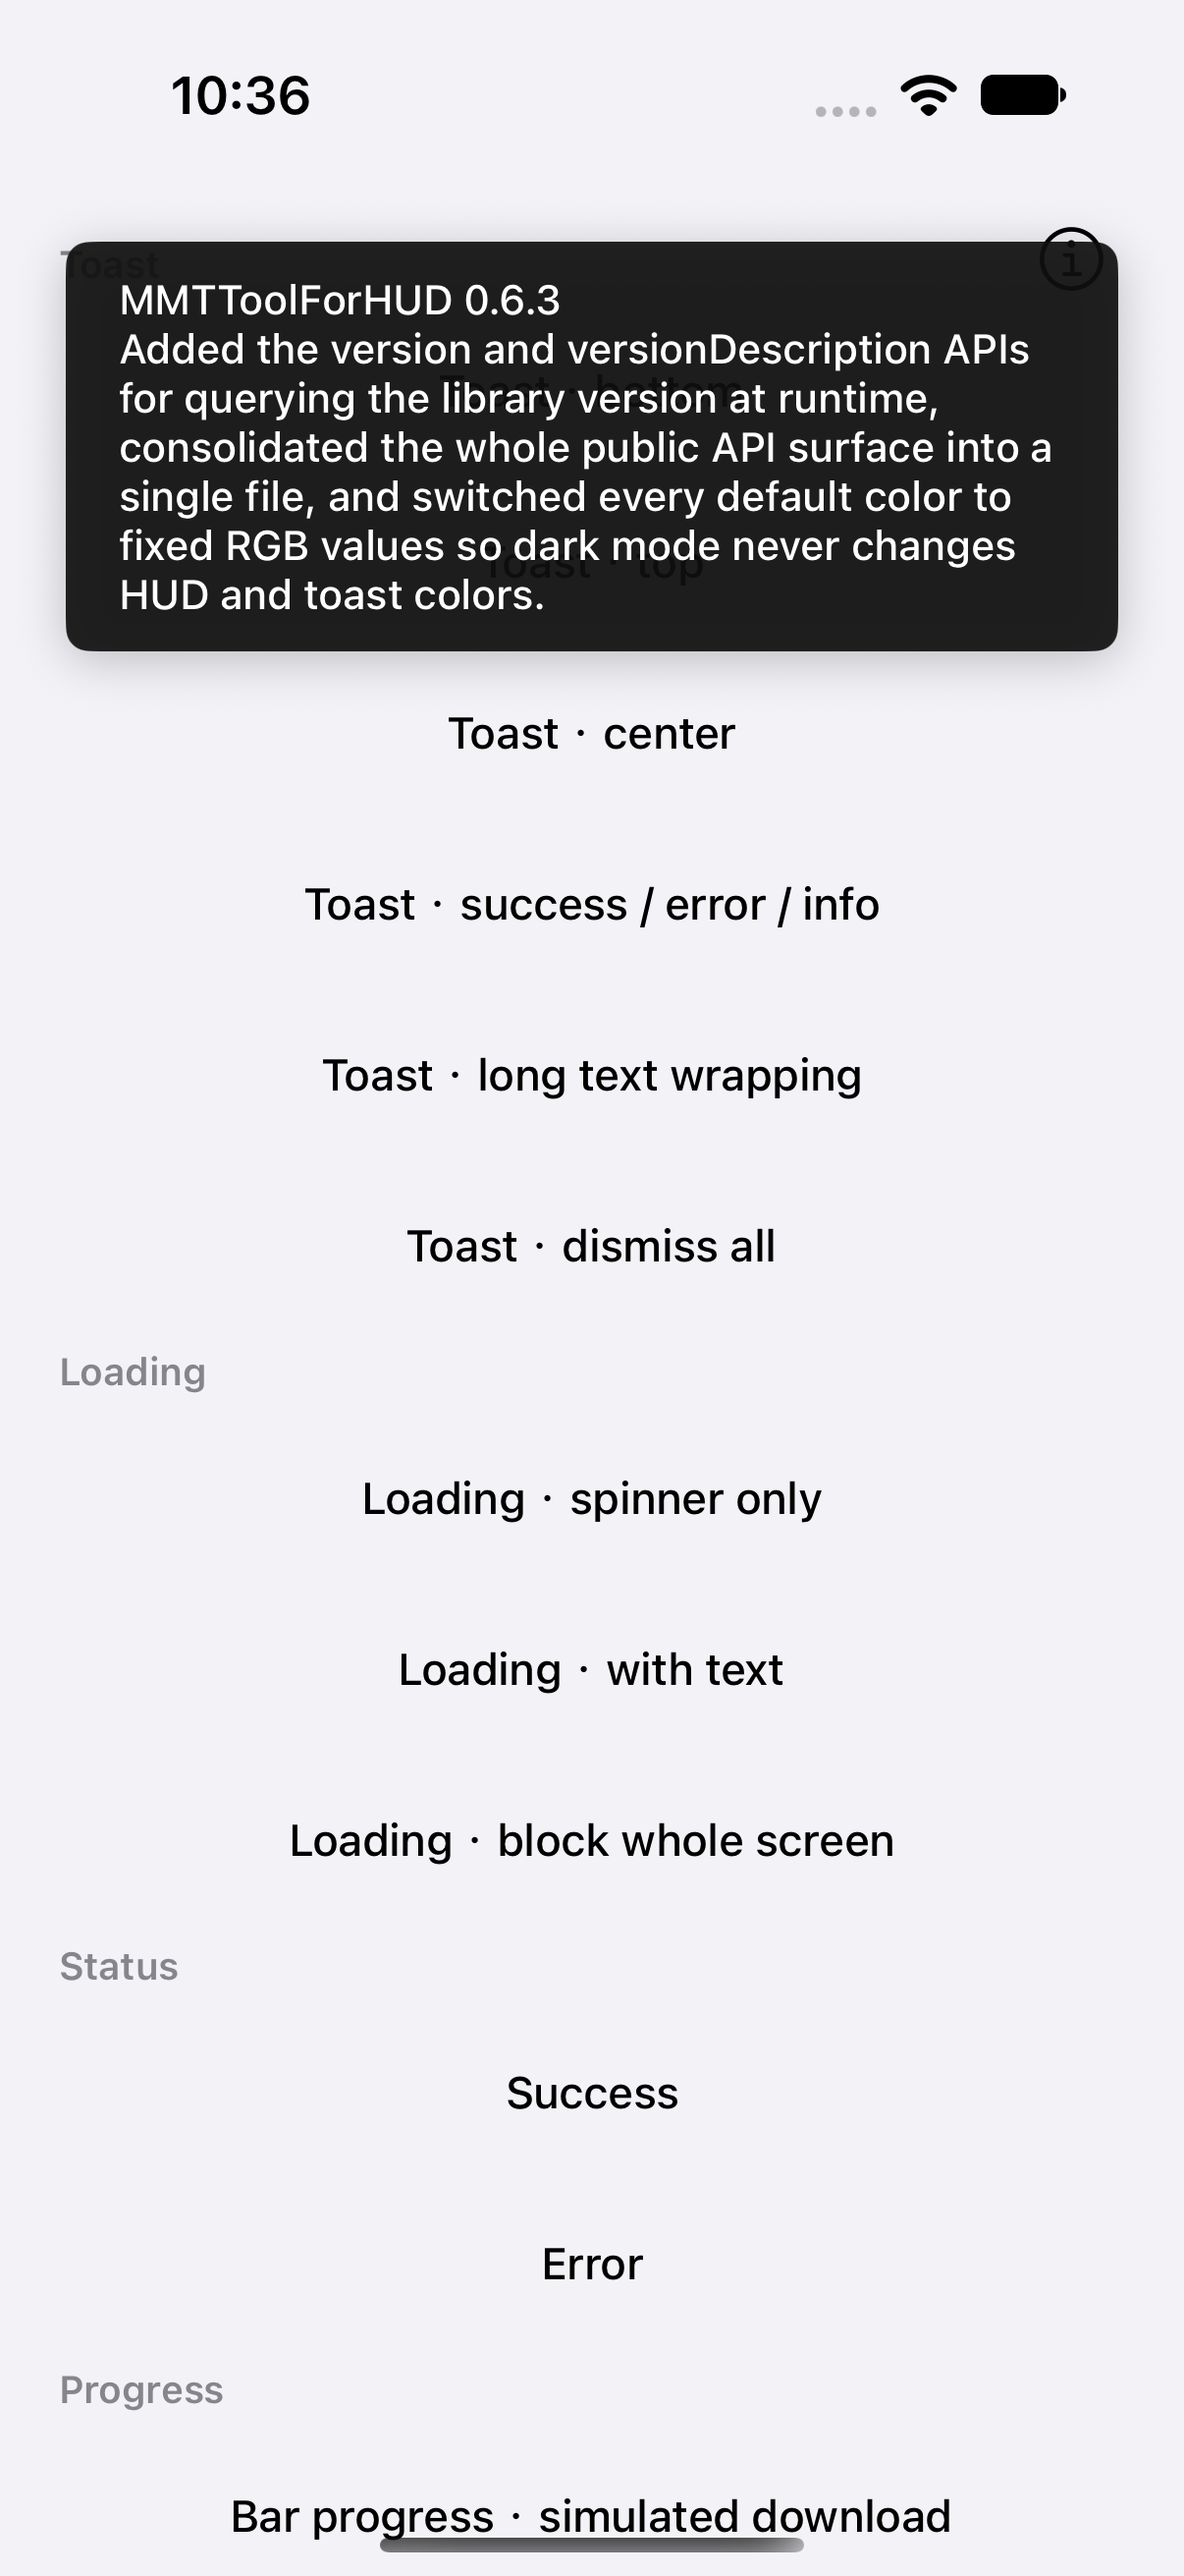
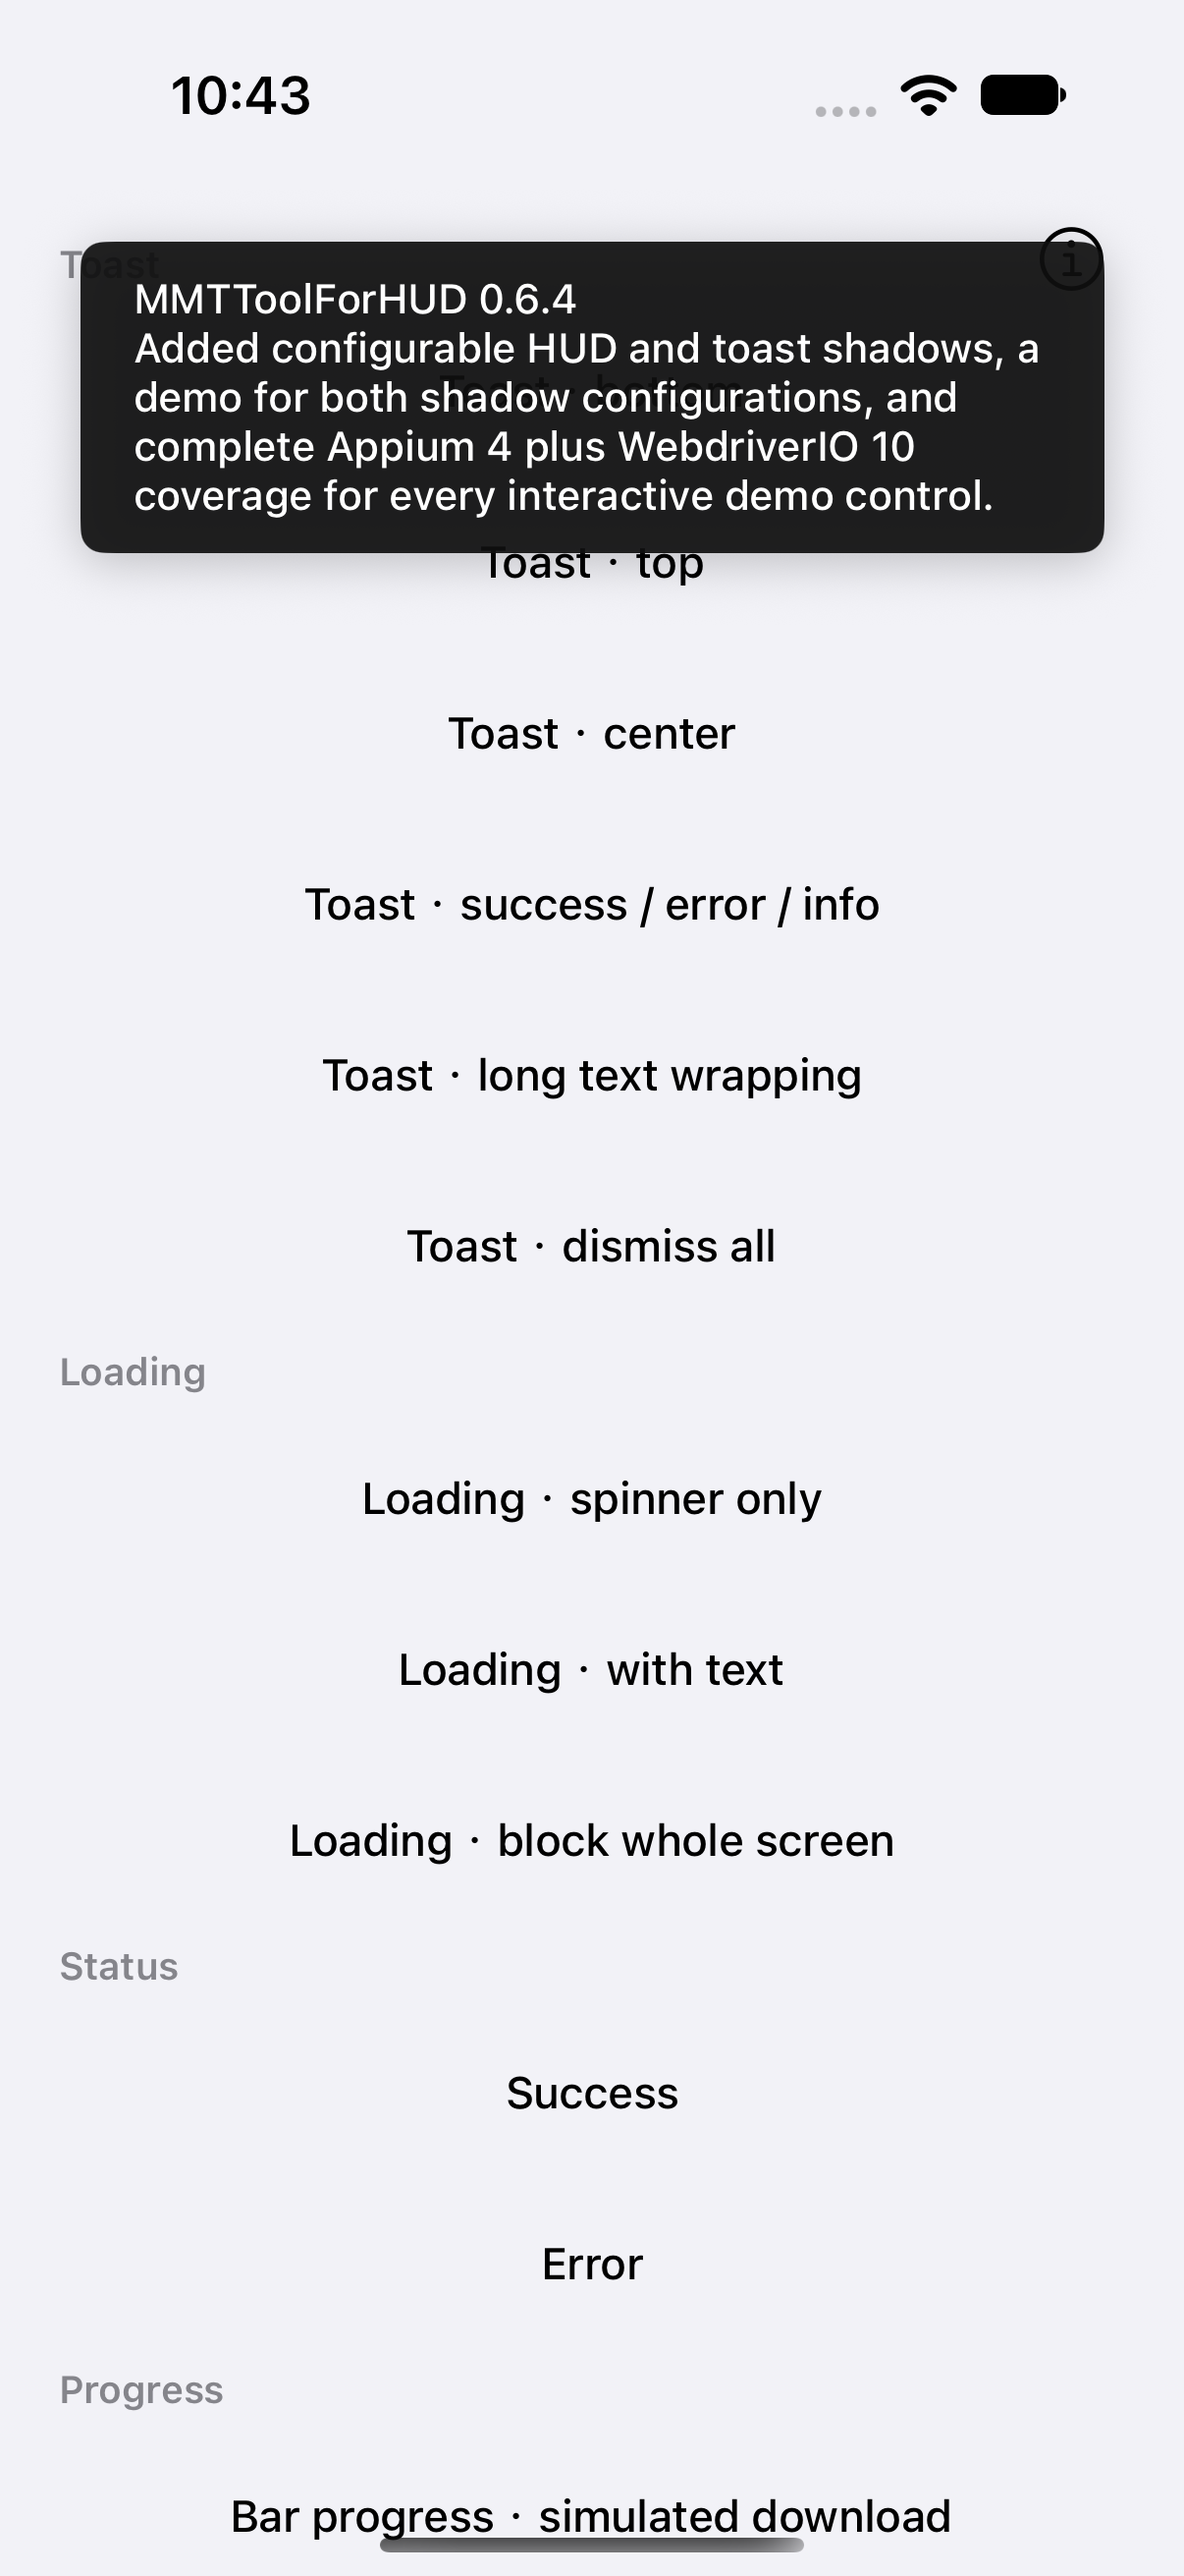
chore: prepare 0.6.4 release

Changed region(s): [[0.0307, 0.0927, 0.9511, 0.278], [0.2148, 0.0309, 0.2454, 0.0618]]

diff --git a/MMTToolForHUD/Classes/MMTToolForHUD.swift b/MMTToolForHUD/Classes/MMTToolForHUD.swift
@@ -40,17 +40,16 @@ public final class MMTToolForHUD {
 
     // MARK: - Version
 
-    /// The current version of the MMTToolForHUD library (e.g. `"0.6.3"`),
+    /// The current version of the MMTToolForHUD library (e.g. `"0.6.4"`),
     /// kept in sync with the podspec.
-    public static let version = "0.6.3"
+    public static let version = "0.6.4"
 
     /// Release notes for the current version: what changed since the
     /// previous release. Kept in sync with the version's release commit.
     public static let versionDescription = """
-        Added the version and versionDescription APIs for querying the \
-        library version at runtime, consolidated the whole public API \
-        surface into a single file, and switched every default color to \
-        fixed RGB values so dark mode never changes HUD and toast colors.
+        Added configurable HUD and toast shadows, a demo for both shadow \
+        configurations, and complete Appium 4 plus WebdriverIO 10 coverage \
+        for every interactive demo control.
         """
 
     // MARK: - Configuration

diff --git a/Example/Tests/Tests.swift b/Example/Tests/Tests.swift
@@ -42,7 +42,7 @@ final class MMTToolForHUDTests: XCTestCase {
                        UIColor(red: 52 / 255, green: 199 / 255, blue: 89 / 255, alpha: 1))
         XCTAssertEqual(config.errorIconColor,
                        UIColor(red: 1, green: 59 / 255, blue: 48 / 255, alpha: 1))
-        XCTAssertEqual(config.hudShadowOpacity, 0.22)
+        XCTAssertEqual(config.hudShadowOpacity, 0.35)
         XCTAssertEqual(config.hudShadowRadius, 10)
         XCTAssertEqual(config.hudShadowOffset, CGSize(width: 0, height: 4))
         XCTAssertEqual(config.toastShadowOpacity, 0.22)

diff --git a/Appium/reports/appium-report.md b/Appium/reports/appium-report.md
@@ -1,24 +1,24 @@
 # MMTToolForHUD Appium Report
 
-Generated: 2026-11-27T02:36:20.404Z
+Generated: 2026-11-27T02:43:45.277Z
 
 Simulator: iPhone 18 Pro
 
 | Test | Status | Duration | Screenshot |
 |---|---|---:|---|
-| shows a bottom toast that auto-dismisses | PASS | 2442ms | [Screenshot](screenshots/shows-a-bottom-toast-that-auto-dismisses.png) |
-| shows a top-position toast | PASS | 544ms | [Screenshot](screenshots/shows-a-top-position-toast.png) |
-| shows a center-position toast | PASS | 544ms | [Screenshot](screenshots/shows-a-center-position-toast.png) |
-| stacks success, error and info toasts | PASS | 652ms | [Screenshot](screenshots/stacks-success-error-and-info-toasts.png) |
-| shows a wrapping long-text toast | PASS | 570ms | [Screenshot](screenshots/shows-a-wrapping-long-text-toast.png) |
-| dismisses every visible toast | PASS | 1028ms | [Screenshot](screenshots/dismisses-every-visible-toast.png) |
-| shows a spinner-only loading HUD and auto-dismisses it | PASS | 2386ms | [Screenshot](screenshots/shows-a-spinner-only-loading-hud-and-auto-dismisses-it.png) |
-| shows loading HUD with text and auto-dismisses it | PASS | 2389ms | [Screenshot](screenshots/shows-loading-hud-with-text-and-auto-dismisses-it.png) |
-| blocks the whole screen and restores HUD-only interception | PASS | 2689ms | [Screenshot](screenshots/blocks-the-whole-screen-and-restores-hud-only-interception.png) |
-| shows the success status icon and auto-dismisses | PASS | 2015ms | [Screenshot](screenshots/shows-the-success-status-icon-and-auto-dismisses.png) |
-| shows the error status icon and auto-dismisses | PASS | 1957ms | [Screenshot](screenshots/shows-the-error-status-icon-and-auto-dismisses.png) |
-| runs bar progress to completion and shows a toast | PASS | 3168ms | [Screenshot](screenshots/runs-bar-progress-to-completion-and-shows-a-toast.png) |
-| runs ring progress to completion | PASS | 4816ms | [Screenshot](screenshots/runs-ring-progress-to-completion.png) |
-| shows configurable HUD and toast shadows | PASS | 2172ms | [Screenshot](screenshots/shows-configurable-hud-and-toast-shadows.png) |
-| applies custom spinner and status icon colors in sequence | PASS | 5871ms | [Screenshot](screenshots/applies-custom-spinner-and-status-icon-colors-in-sequence.png) |
-| shows version information from the floating info button | PASS | 824ms | [Screenshot](screenshots/shows-version-information-from-the-floating-info-button.png) |
+| shows a bottom toast that auto-dismisses | PASS | 2432ms | [Screenshot](screenshots/shows-a-bottom-toast-that-auto-dismisses.png) |
+| shows a top-position toast | PASS | 579ms | [Screenshot](screenshots/shows-a-top-position-toast.png) |
+| shows a center-position toast | PASS | 557ms | [Screenshot](screenshots/shows-a-center-position-toast.png) |
+| stacks success, error and info toasts | PASS | 684ms | [Screenshot](screenshots/stacks-success-error-and-info-toasts.png) |
+| shows a wrapping long-text toast | PASS | 575ms | [Screenshot](screenshots/shows-a-wrapping-long-text-toast.png) |
+| dismisses every visible toast | PASS | 1031ms | [Screenshot](screenshots/dismisses-every-visible-toast.png) |
+| shows a spinner-only loading HUD and auto-dismisses it | PASS | 2395ms | [Screenshot](screenshots/shows-a-spinner-only-loading-hud-and-auto-dismisses-it.png) |
+| shows loading HUD with text and auto-dismisses it | PASS | 2412ms | [Screenshot](screenshots/shows-loading-hud-with-text-and-auto-dismisses-it.png) |
+| blocks the whole screen and restores HUD-only interception | PASS | 2667ms | [Screenshot](screenshots/blocks-the-whole-screen-and-restores-hud-only-interception.png) |
+| shows the success status icon and auto-dismisses | PASS | 2011ms | [Screenshot](screenshots/shows-the-success-status-icon-and-auto-dismisses.png) |
+| shows the error status icon and auto-dismisses | PASS | 2044ms | [Screenshot](screenshots/shows-the-error-status-icon-and-auto-dismisses.png) |
+| runs bar progress to completion and shows a toast | PASS | 3156ms | [Screenshot](screenshots/runs-bar-progress-to-completion-and-shows-a-toast.png) |
+| runs ring progress to completion | PASS | 4787ms | [Screenshot](screenshots/runs-ring-progress-to-completion.png) |
+| shows configurable HUD and toast shadows | PASS | 2155ms | [Screenshot](screenshots/shows-configurable-hud-and-toast-shadows.png) |
+| applies custom spinner and status icon colors in sequence | PASS | 5948ms | [Screenshot](screenshots/applies-custom-spinner-and-status-icon-colors-in-sequence.png) |
+| shows version information from the floating info button | PASS | 800ms | [Screenshot](screenshots/shows-version-information-from-the-floating-info-button.png) |

diff --git a/Appium/reports/appium-shadow-report.md b/Appium/reports/appium-shadow-report.md
@@ -1,24 +1,24 @@
 # MMTToolForHUD Appium Report
 
-Generated: 2026-11-27T02:36:20.404Z
+Generated: 2026-11-27T02:43:45.277Z
 
 Simulator: iPhone 18 Pro
 
 | Test | Status | Duration | Screenshot |
 |---|---|---:|---|
-| shows a bottom toast that auto-dismisses | PASS | 2442ms | [Screenshot](screenshots/shows-a-bottom-toast-that-auto-dismisses.png) |
-| shows a top-position toast | PASS | 544ms | [Screenshot](screenshots/shows-a-top-position-toast.png) |
-| shows a center-position toast | PASS | 544ms | [Screenshot](screenshots/shows-a-center-position-toast.png) |
-| stacks success, error and info toasts | PASS | 652ms | [Screenshot](screenshots/stacks-success-error-and-info-toasts.png) |
-| shows a wrapping long-text toast | PASS | 570ms | [Screenshot](screenshots/shows-a-wrapping-long-text-toast.png) |
-| dismisses every visible toast | PASS | 1028ms | [Screenshot](screenshots/dismisses-every-visible-toast.png) |
-| shows a spinner-only loading HUD and auto-dismisses it | PASS | 2386ms | [Screenshot](screenshots/shows-a-spinner-only-loading-hud-and-auto-dismisses-it.png) |
-| shows loading HUD with text and auto-dismisses it | PASS | 2389ms | [Screenshot](screenshots/shows-loading-hud-with-text-and-auto-dismisses-it.png) |
-| blocks the whole screen and restores HUD-only interception | PASS | 2689ms | [Screenshot](screenshots/blocks-the-whole-screen-and-restores-hud-only-interception.png) |
-| shows the success status icon and auto-dismisses | PASS | 2015ms | [Screenshot](screenshots/shows-the-success-status-icon-and-auto-dismisses.png) |
-| shows the error status icon and auto-dismisses | PASS | 1957ms | [Screenshot](screenshots/shows-the-error-status-icon-and-auto-dismisses.png) |
-| runs bar progress to completion and shows a toast | PASS | 3168ms | [Screenshot](screenshots/runs-bar-progress-to-completion-and-shows-a-toast.png) |
-| runs ring progress to completion | PASS | 4816ms | [Screenshot](screenshots/runs-ring-progress-to-completion.png) |
-| shows configurable HUD and toast shadows | PASS | 2172ms | [Screenshot](screenshots/shows-configurable-hud-and-toast-shadows.png) |
-| applies custom spinner and status icon colors in sequence | PASS | 5871ms | [Screenshot](screenshots/applies-custom-spinner-and-status-icon-colors-in-sequence.png) |
-| shows version information from the floating info button | PASS | 824ms | [Screenshot](screenshots/shows-version-information-from-the-floating-info-button.png) |
+| shows a bottom toast that auto-dismisses | PASS | 2432ms | [Screenshot](screenshots/shows-a-bottom-toast-that-auto-dismisses.png) |
+| shows a top-position toast | PASS | 579ms | [Screenshot](screenshots/shows-a-top-position-toast.png) |
+| shows a center-position toast | PASS | 557ms | [Screenshot](screenshots/shows-a-center-position-toast.png) |
+| stacks success, error and info toasts | PASS | 684ms | [Screenshot](screenshots/stacks-success-error-and-info-toasts.png) |
+| shows a wrapping long-text toast | PASS | 575ms | [Screenshot](screenshots/shows-a-wrapping-long-text-toast.png) |
+| dismisses every visible toast | PASS | 1031ms | [Screenshot](screenshots/dismisses-every-visible-toast.png) |
+| shows a spinner-only loading HUD and auto-dismisses it | PASS | 2395ms | [Screenshot](screenshots/shows-a-spinner-only-loading-hud-and-auto-dismisses-it.png) |
+| shows loading HUD with text and auto-dismisses it | PASS | 2412ms | [Screenshot](screenshots/shows-loading-hud-with-text-and-auto-dismisses-it.png) |
+| blocks the whole screen and restores HUD-only interception | PASS | 2667ms | [Screenshot](screenshots/blocks-the-whole-screen-and-restores-hud-only-interception.png) |
+| shows the success status icon and auto-dismisses | PASS | 2011ms | [Screenshot](screenshots/shows-the-success-status-icon-and-auto-dismisses.png) |
+| shows the error status icon and auto-dismisses | PASS | 2044ms | [Screenshot](screenshots/shows-the-error-status-icon-and-auto-dismisses.png) |
+| runs bar progress to completion and shows a toast | PASS | 3156ms | [Screenshot](screenshots/runs-bar-progress-to-completion-and-shows-a-toast.png) |
+| runs ring progress to completion | PASS | 4787ms | [Screenshot](screenshots/runs-ring-progress-to-completion.png) |
+| shows configurable HUD and toast shadows | PASS | 2155ms | [Screenshot](screenshots/shows-configurable-hud-and-toast-shadows.png) |
+| applies custom spinner and status icon colors in sequence | PASS | 5948ms | [Screenshot](screenshots/applies-custom-spinner-and-status-icon-colors-in-sequence.png) |
+| shows version information from the floating info button | PASS | 800ms | [Screenshot](screenshots/shows-version-information-from-the-floating-info-button.png) |

diff --git a/README.md b/README.md
@@ -35,10 +35,10 @@ fully customizable through a single `MMTToolForHUDConfig`.
 
 | Resource | Link |
 |---|---|
-| Latest changelog (0.6.3) | [`Changelogs/0.6.3.md`](Changelogs/0.6.3.md) |
+| Latest changelog (0.6.4) | [`Changelogs/0.6.4.md`](Changelogs/0.6.4.md) |
 | All changelogs (per version) | [`Changelogs/`](Changelogs) |
-| Latest performance report (tag 0.6.3) | [`perf-report-0.6.3.md`](PerformanceReports/perf-report-0.6.3.md) |
-| Latest performance report (machine-readable) | [`perf-report-0.6.3.json`](PerformanceReports/perf-report-0.6.3.json) |
+| Latest performance report (tag 0.6.4) | [`perf-report-0.6.4.md`](PerformanceReports/perf-report-0.6.4.md) |
+| Latest performance report (machine-readable) | [`perf-report-0.6.4.json`](PerformanceReports/perf-report-0.6.4.json) |
 | All performance reports (history) | [`PerformanceReports/`](PerformanceReports) |
 | Latest performance test run log | [`last-run.log`](PerformanceReports/last-run.log) |
 | Unit + performance test suite | [`Example/Tests/Tests.swift`](Example/Tests/Tests.swift) |
@@ -243,7 +243,7 @@ keyboard-heavy screens if that matters.
 
 | API | Description |
 |---|---|
-| `version` | Library version string (e.g. `"0.6.3"`), kept in sync with the podspec |
+| `version` | Library version string (e.g. `"0.6.4"`), kept in sync with the podspec |
 | `versionDescription` | Release notes: what changed in the current version since the previous release |
 | `showLoading(_:in:)` | Spinner with optional text |
 | `showProgress(_:text:style:in:)` | Bar or ring progress |
@@ -290,7 +290,7 @@ after the change.
 | `textColor` / `textFont` | Text appearance | white / 14pt medium |
 | `cornerRadius` | Panel corner radius | `16` |
 | `hudShadowColor` | Panel shadow color | black |
-| `hudShadowOpacity` | Panel shadow opacity | `0.22` |
+| `hudShadowOpacity` | Panel shadow opacity | `0.35` |
 | `hudShadowRadius` | Panel shadow blur radius | `10` |
 | `hudShadowOffset` | Panel shadow offset | `(0, 4)` |
 | `hudPadding` | Padding between panel edge and content | `16` |
@@ -430,7 +430,7 @@ Automated benchmarks with budget assertions live in
 runs them and writes JSON + Markdown reports into
 [`PerformanceReports/`](PerformanceReports) (reports are committed to the
 repository as history — see the
-[latest report](PerformanceReports/perf-report-0.6.3.md)):
+[latest report](PerformanceReports/perf-report-0.6.4.md)):
 
 ```bash
 scripts/run-performance-tests.sh          # uses the booted simulator

diff --git a/Changelogs/0.6.4.md b/Changelogs/0.6.4.md
@@ -1,0 +1,29 @@
+# 0.6.4
+
+Released: 2026-11-27 · [Performance report](../PerformanceReports/perf-report-0.6.4.md)
+
+## Added
+
+- Configurable shadow appearance for HUD panels:
+  `hudShadowColor`, `hudShadowOpacity`, `hudShadowRadius`, and
+  `hudShadowOffset`
+- Configurable shadow appearance for toast items:
+  `toastShadowColor`, `toastShadowOpacity`, `toastShadowRadius`, and
+  `toastShadowOffset`
+- Demo controls for customized HUD and toast shadows
+- Complete Appium coverage for every interactive demo control
+- JSON and Markdown Appium reports with one screenshot per test
+
+## Changed
+
+- Upgraded the Appium test stack to Appium 4, WebdriverIO 10, and the
+  XCUITest driver 13
+- Updated Appium capabilities and simulator selection for iPhone 18 Pro
+- Updated runtime `MMTToolForHUD.version` and `versionDescription` metadata
+
+## Fixed
+
+- HUD and toast panels now keep their shadow outside the clipped panel
+  bounds by switching from clipped to non-clipped rounded-panel rendering
+- Appium tests now handle stacked toasts and stale elements reliably
+- Appium scroll navigation reliably reaches bottom-of-screen demo controls

diff --git a/PerformanceReports/perf-report-0.6.4.md b/PerformanceReports/perf-report-0.6.4.md
@@ -1,0 +1,12 @@
+# MMTToolForHUD performance report
+
+Generated: 2026-11-27 10.41.17 · Device: arm64
+
+| Benchmark | Iterations | Average | Max | Budget | Status |
+|---|---:|---:|---:|---:|---|
+| showLoading + layout + dismiss (per cycle) | 50 | 0.320ms | 0.375ms | 15.0ms | PASS |
+| updateProgress (per call) | 200 | 0.205ms | 0.507ms | 2.0ms | PASS |
+| preferredSize with long text (per call) | 500 | 0.045ms | 0.094ms | 1.0ms | PASS |
+| toast present + remove (per cycle) | 100 | 0.312ms | 0.456ms | 5.0ms | PASS |
+
+Memory footprint delta after stress cycles: 4064 KB (informational, no budget).
